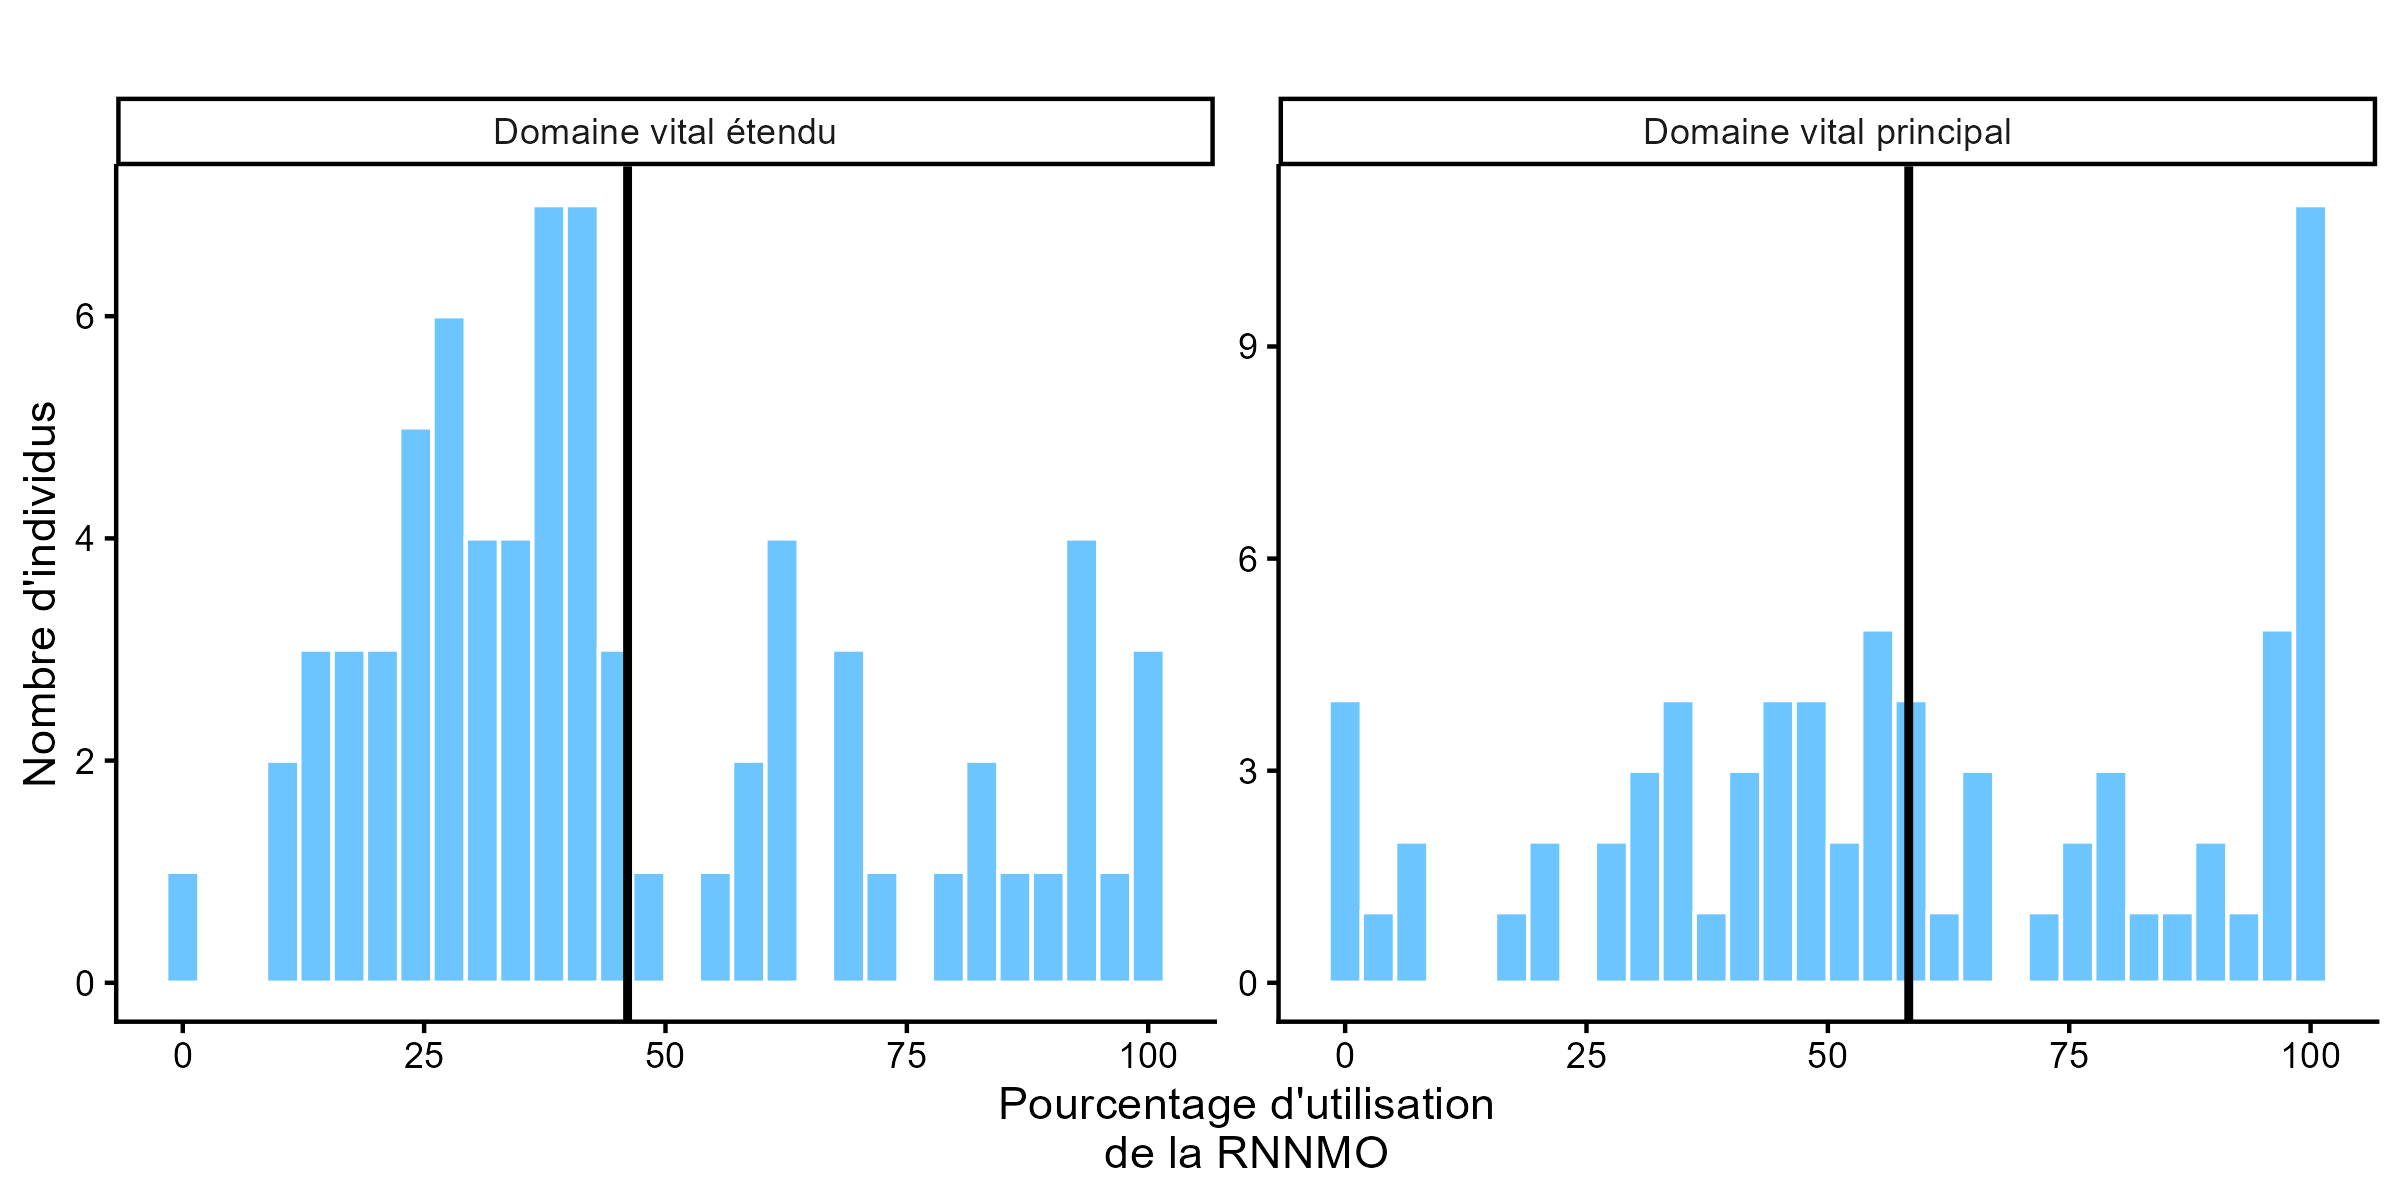
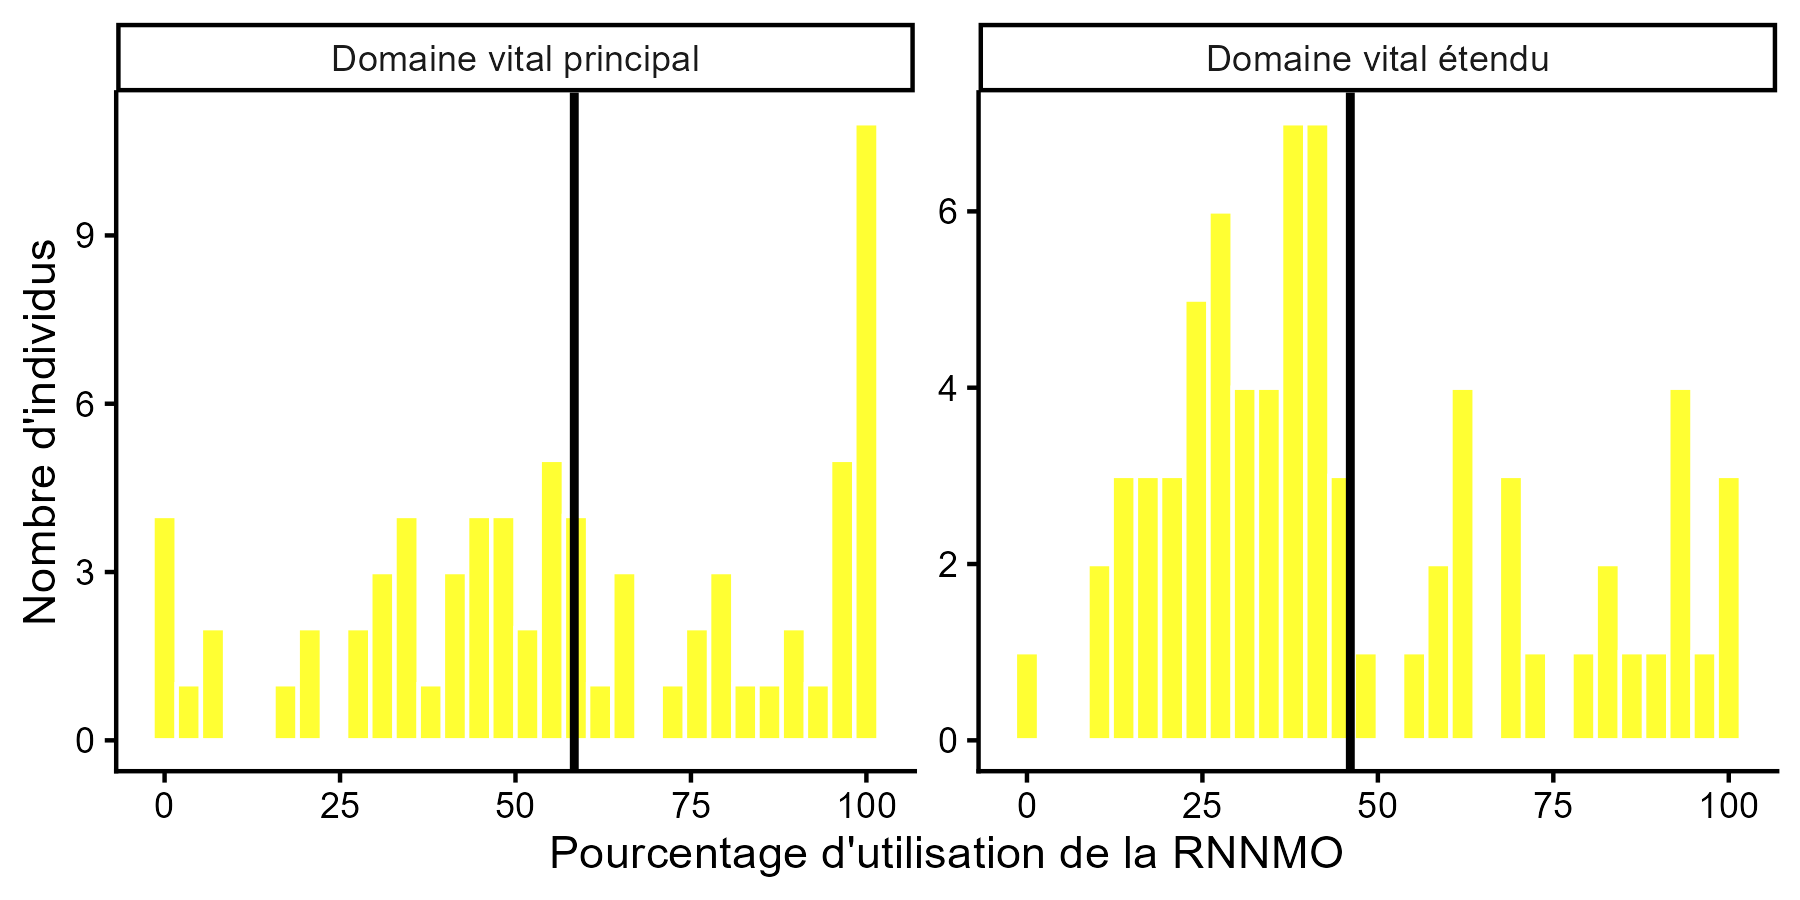
mise à jour

Changed region(s): [[0.0, 0.0, 0.9956, 0.9956], [0.0311, 0.2489, 0.0622, 0.28]]

diff --git a/index.html b/index.html
@@ -432,7 +432,7 @@ Figure&nbsp;11: Aire des domaines vitaux principaux (haut) et étendus (bas) en 
 <div class="cell-output-display">
 <div class="quarto-figure quarto-figure-center">
 <figure class="figure">
-<p><img src="hr_plot.png" class="img-fluid quarto-figure quarto-figure-center figure-img" style="width:70.0%"></p>
+<p><img src="hr_plot.png" class="img-fluid quarto-figure quarto-figure-center figure-img" style="width:90.0%"></p>
 </figure>
 </div>
 </div>
@@ -451,7 +451,7 @@ Figure&nbsp;12: Distribution des pourcentages d’utilisation de la RNNMO pour l
 <div class="cell-output-display">
 <div class="quarto-figure quarto-figure-center">
 <figure class="figure">
-<p><img src="hist_danslareserve.png" class="img-fluid quarto-figure quarto-figure-center figure-img" style="width:70.0%"></p>
+<p><img src="hist_danslareserve.png" class="img-fluid quarto-figure quarto-figure-center figure-img" style="width:50.0%"></p>
 </figure>
 </div>
 </div>
@@ -1634,8 +1634,8 @@ Figure&nbsp;68
 <p>Dates d’ouverture et de fermeture de la chasse sur le DPM :</p>
 <div class="cell">
 <div class="cell-output-display">
-<div class="datatables html-widget html-fill-item" id="htmlwidget-62cfe39d1c060c4f66bc" style="width:100%;height:auto;"></div>
-<script type="application/json" data-for="htmlwidget-62cfe39d1c060c4f66bc">{"x":{"filter":"none","vertical":false,"data":[["1","2","3","4","5","6","7"],["2024/2025","2023/2024","2022/2023","2021/2022","2020/2021","2019/2020","2018/2019"],["08/09/2024","10/09/2023","11/09/2022","12/09/2021","13/09/2020","08/09/2019","09/09/2018"],["31/01/2025","31/01/2024","31/01/2023","31/01/2022","31/01/2021","31/01/2020","31/01/2019"]],"container":"<table class=\"stripe hover cell-border\">\n  <thead>\n    <tr>\n      <th> <\/th>\n      <th>Saison<\/th>\n      <th>Ouverture<\/th>\n      <th>Fermeture<\/th>\n    <\/tr>\n  <\/thead>\n<\/table>","options":{"pageLength":10,"lengthMenu":[5,10,20,50],"searching":true,"ordering":true,"scrollX":true,"columnDefs":[{"orderable":false,"targets":0},{"name":" ","targets":0},{"name":"Saison","targets":1},{"name":"Ouverture","targets":2},{"name":"Fermeture","targets":3}],"order":[],"autoWidth":false,"orderClasses":false}},"evals":[],"jsHooks":[]}</script>
+<div class="datatables html-widget html-fill-item" id="htmlwidget-9bf3740ac6c0a42c28fc" style="width:100%;height:auto;"></div>
+<script type="application/json" data-for="htmlwidget-9bf3740ac6c0a42c28fc">{"x":{"filter":"none","vertical":false,"data":[["1","2","3","4","5","6","7"],["2024/2025","2023/2024","2022/2023","2021/2022","2020/2021","2019/2020","2018/2019"],["08/09/2024","10/09/2023","11/09/2022","12/09/2021","13/09/2020","08/09/2019","09/09/2018"],["31/01/2025","31/01/2024","31/01/2023","31/01/2022","31/01/2021","31/01/2020","31/01/2019"]],"container":"<table class=\"stripe hover cell-border\">\n  <thead>\n    <tr>\n      <th> <\/th>\n      <th>Saison<\/th>\n      <th>Ouverture<\/th>\n      <th>Fermeture<\/th>\n    <\/tr>\n  <\/thead>\n<\/table>","options":{"pageLength":10,"lengthMenu":[5,10,20,50],"searching":true,"ordering":true,"scrollX":true,"columnDefs":[{"orderable":false,"targets":0},{"name":" ","targets":0},{"name":"Saison","targets":1},{"name":"Ouverture","targets":2},{"name":"Fermeture","targets":3}],"order":[],"autoWidth":false,"orderClasses":false}},"evals":[],"jsHooks":[]}</script>
 </div>
 </div>
 <p>Afin de limiter les effets de variation saisonnière sur l’utilisation de l’espace, le jeu de données est restreint autour de la fermeture de la chasse : 15 dernier jour de la période de chasse (période de chasse), 15 premier jour après la fermeture de la chasse (hors période de chasse).</p>
@@ -1817,7 +1817,7 @@ Figure&nbsp;74: Zone critique de dérangement du courlis cendré : zones d’ali
 <section id="auteur.ices-affiliations-et-contributions" class="level1" data-number="19">
 <h1 data-number="19"><span class="header-section-number">19</span> Auteur.ices, affiliations et contributions</h1>
 <p>Cette étude a nécessité la participation d’une moyenne de XXX personnes sur le terrain durant environ XXX nuits par an depuis 2016, anisi qu’une personne à temps plein (35h/semaine) pendant 6 mois pour l’analyse des données et la redaction de ce rapport.</p>
-<p><strong>Travail de terrain, capture et baguage des oiseaux</strong> : Pierre Rousseau (RNN Moëze-Oléron), Loïc Jomat (RNN Moëze-Oléron), Adrien Chaigne (RNN Moëze-Oléron), Pierrick Bocher (RNN Moëze-Oléron), Frédéric Jiguet (RNN Moëze-Oléron), et beaucoup d’autre personnes !</p>
+<p><strong>Travail de terrain, capture et baguage des oiseaux</strong> : Pierre Rousseau (RNN Moëze-Oléron), Loïc Jomat (RNN Moëze-Oléron), Adrien Chaigne (RNN Moëze-Oléron), Pierrick Bocher (RNN Moëze-Oléron), Frédéric Jiguet (RNN Moëze-Oléron), et beaucoup d’autres personnes !</p>
 <p><strong>Analyses statistiques et spatiales</strong> : Suzanne Bonamour (LPO France), Gwenael Quaintenne (LPO France)</p>
 <p><strong>Rédaction</strong> : Suzanne Bonamour (LPO France)</p>
 <p><strong>Recherche de financements et partenaires</strong> : Adrien Chaigne (RNN Moëze-Oléron)</p>
@@ -1830,8 +1830,8 @@ Figure&nbsp;74: Zone critique de dérangement du courlis cendré : zones d’ali
 <h2 data-number="20.1" class="anchored" data-anchor-id="tableau-des-correspondance-bague-et-id"><span class="header-section-number">20.1</span> Tableau des correspondance bague et ID</h2>
 <div class="cell">
 <div class="cell-output-display">
-<div class="datatables html-widget html-fill-item" id="htmlwidget-450563ac7b3d52d4c0f5" style="width:100%;height:auto;"></div>
-<script type="application/json" data-for="htmlwidget-450563ac7b3d52d4c0f5">{"x":{"filter":"none","vertical":false,"extensions":["Buttons"],"data":[["1","2","3","4","5","6","7","8","9","10","11","12","13","14","15","16","17","18","19","20","21","22","23","24","25","26","27","28","29","30","31","32","33","34","35","36","37","38","39","40","41","42","43","44","45","46","47","48","49","50","51","52","53","54","55","56","57","58","59","60","61","62","63","64","65","66","67","68","69","70","71","72","73","74","75","76","77","78","79","80"],["4025065","EA542002","EA542017","EA580424","EA580425","EA580426","EA580430","EA580433","EA580432","EA580462","EA580466","EA580467","EA580468","EA580469","EA580470","EA580471","EA580476","EA580477","EA580478","EA580480","EA580481","EA580489","EA580490","EA580491","EA580492","EA580493","EA580494","EA580495","EA580497","EA580498","EA580499","EA581501","EA581504","EA581505","EA581506","EA581507","EA581508","EA581509","EA581511","EA581512","EA581513","EA581514","EA581515","EA581520","EA635119","EA635142","EA639684","EA580500","EA581522","EA581523","EA581527","EA581540","EA581541","EA581542","EA581544","EA581545","EA581546","EA581547","EA581639","EA593051","EA635101","EA635103","EA635104","EA635105","EA635108","EA635109","EA635112","EA581521","EC103787","EC103788","EC103791","EC103792","EA671454","EC103765","EC103766","EC110552","EN08034","EA580463","EA580464","EA580465"],["A1","A2","A3","A4","A5","A6","A7","A8","A9","B1","B2","B3","B4","B5","B6","B7","B8","B9","C1","C2","C3","C4","C5","C6","C7","C8","C9","D1","D2","D3","D4","D5","D6","D7","D8","D9","E1","E2","E3","E4","E5","E6","E7","E8","E9","F1","F2","F3","F4","F5","F6","F7","F8","F9","G1","G2","G3","G4","G5","G6","G7","G8","G9","H1","H2","H3","H4","H5","H6","H7","H8","H9","I1","I2","I3","I4","I5","I6","I7","I8"]],"container":"<table class=\"display\">\n  <thead>\n    <tr>\n      <th> <\/th>\n      <th>bague<\/th>\n      <th>ID<\/th>\n    <\/tr>\n  <\/thead>\n<\/table>","options":{"dom":"Blfrtip","buttons":["copy","csv","excel","pdf","print"],"lengthMenu":[[10,25,50,-1],["10","25","50","All"]],"columnDefs":[{"orderable":false,"targets":0},{"name":" ","targets":0},{"name":"bague","targets":1},{"name":"ID","targets":2}],"order":[],"autoWidth":false,"orderClasses":false}},"evals":[],"jsHooks":[]}</script>
+<div class="datatables html-widget html-fill-item" id="htmlwidget-cc22a163724d7d011739" style="width:100%;height:auto;"></div>
+<script type="application/json" data-for="htmlwidget-cc22a163724d7d011739">{"x":{"filter":"none","vertical":false,"extensions":["Buttons"],"data":[["1","2","3","4","5","6","7","8","9","10","11","12","13","14","15","16","17","18","19","20","21","22","23","24","25","26","27","28","29","30","31","32","33","34","35","36","37","38","39","40","41","42","43","44","45","46","47","48","49","50","51","52","53","54","55","56","57","58","59","60","61","62","63","64","65","66","67","68","69","70","71","72","73","74","75","76","77","78","79","80"],["4025065","EA542002","EA542017","EA580424","EA580425","EA580426","EA580430","EA580433","EA580432","EA580462","EA580466","EA580467","EA580468","EA580469","EA580470","EA580471","EA580476","EA580477","EA580478","EA580480","EA580481","EA580489","EA580490","EA580491","EA580492","EA580493","EA580494","EA580495","EA580497","EA580498","EA580499","EA581501","EA581504","EA581505","EA581506","EA581507","EA581508","EA581509","EA581511","EA581512","EA581513","EA581514","EA581515","EA581520","EA635119","EA635142","EA639684","EA580500","EA581522","EA581523","EA581527","EA581540","EA581541","EA581542","EA581544","EA581545","EA581546","EA581547","EA581639","EA593051","EA635101","EA635103","EA635104","EA635105","EA635108","EA635109","EA635112","EA581521","EC103787","EC103788","EC103791","EC103792","EA671454","EC103765","EC103766","EC110552","EN08034","EA580463","EA580464","EA580465"],["A1","A2","A3","A4","A5","A6","A7","A8","A9","B1","B2","B3","B4","B5","B6","B7","B8","B9","C1","C2","C3","C4","C5","C6","C7","C8","C9","D1","D2","D3","D4","D5","D6","D7","D8","D9","E1","E2","E3","E4","E5","E6","E7","E8","E9","F1","F2","F3","F4","F5","F6","F7","F8","F9","G1","G2","G3","G4","G5","G6","G7","G8","G9","H1","H2","H3","H4","H5","H6","H7","H8","H9","I1","I2","I3","I4","I5","I6","I7","I8"]],"container":"<table class=\"display\">\n  <thead>\n    <tr>\n      <th> <\/th>\n      <th>bague<\/th>\n      <th>ID<\/th>\n    <\/tr>\n  <\/thead>\n<\/table>","options":{"dom":"Blfrtip","buttons":["copy","csv","excel","pdf","print"],"lengthMenu":[[10,25,50,-1],["10","25","50","All"]],"columnDefs":[{"orderable":false,"targets":0},{"name":" ","targets":0},{"name":"bague","targets":1},{"name":"ID","targets":2}],"order":[],"autoWidth":false,"orderClasses":false}},"evals":[],"jsHooks":[]}</script>
 </div>
 </div>
 <p><a href="#top">↑ retour en haut</a></p>
